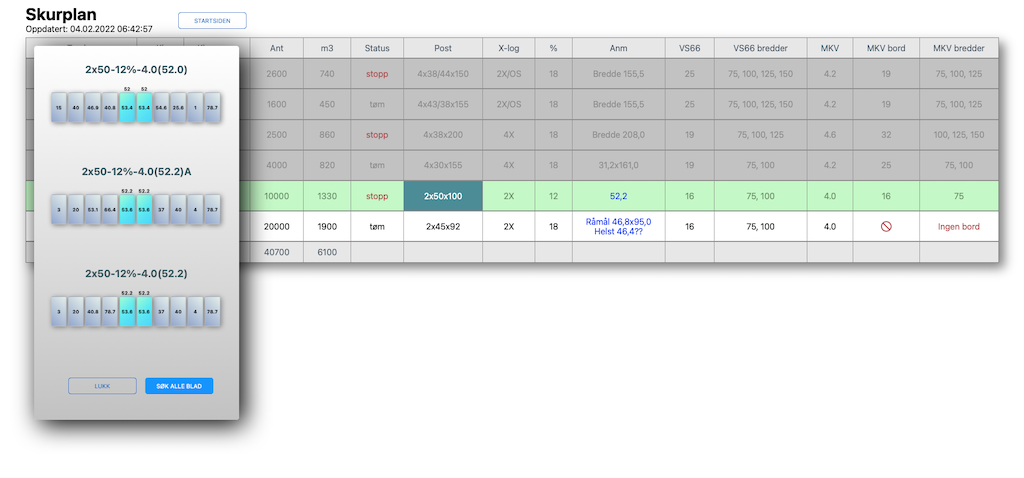
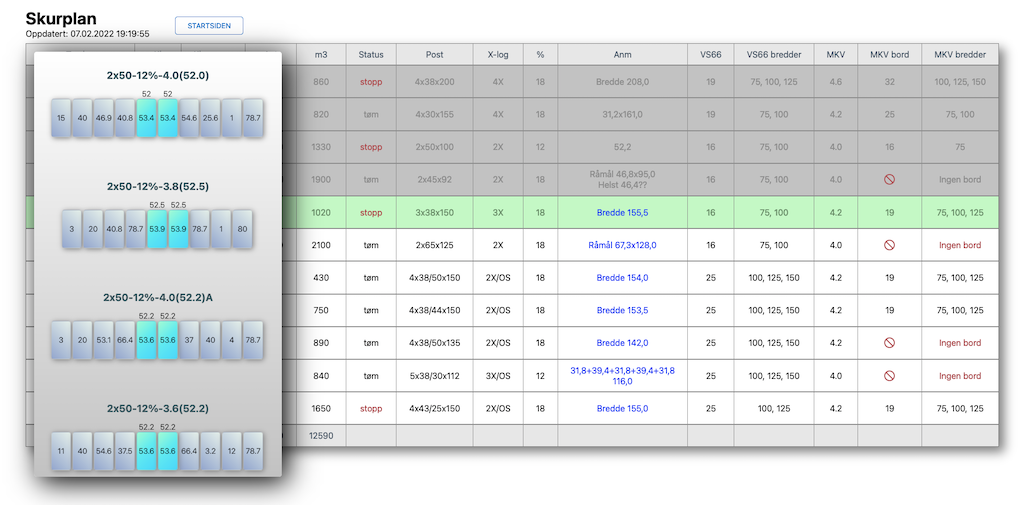
design search

Changed region(s): [[0.0, 0.0, 1.0, 0.9958]]

diff --git a/src/components/postarkiv/PostarkivStartpage2.jsx b/src/components/postarkiv/PostarkivStartpage2.jsx
@@ -36,9 +36,14 @@ const PostarkivStartpage2 = ({
               placeholder="Søk"
               onChange={(e) => setInput(e.target.value)}
             />
-            <p className="antall">
-              Antall: {filteredData && filteredData.length}
-            </p>
+            <div>
+              <p className="antall">
+                Antall poster: {postarkiv && postarkiv.length}
+              </p>
+              <p className="antall">
+                Antall treff: {filteredData && filteredData.length}
+              </p>
+            </div>
           </div>
         </div>
 
@@ -98,6 +103,7 @@ const PostarkivStartpage2 = ({
           .header {
             margin-bottom: 2rem;
             text-align: center;
+            color: white;
           }
           .header-component {
             padding: 2rem 0;
@@ -111,7 +117,7 @@ const PostarkivStartpage2 = ({
             display: grid;
             place-items: center;
             width: 100%;
-            background-color: #ffffff;
+            background-color: transparent;
             z-index: 100;
             margin-bottom: 5rem;
           }
@@ -138,7 +144,15 @@ const PostarkivStartpage2 = ({
             height: 10rem;
           }
           .rings {
-            background-image: linear-gradient(120deg, #84fab0 0%, #8fd3f4 100%);
+            background-image: linear-gradient(
+              to top,
+              #ffffff 0%,
+              #cceaf0 1%,
+              #78a7b6 26%,
+              #d1f4f8 48%,
+              #b2dbee 75%,
+              #28778f 100%
+            );
             border: 1px solid #a3a1a171;
             padding: 0.5rem;
             font-size: 0.8rem;
@@ -149,16 +163,18 @@ const PostarkivStartpage2 = ({
             align-items: center;
             margin-right: 0.2rem;
             border-radius: 3px;
-            box-shadow: 2px 2px 10px grey;
           }
           .endrings {
           }
           .rawinput {
             background-image: linear-gradient(
-              -225deg,
-              #ffe29f 0%,
-              #ffa99f 48%,
-              #ff719a 100%
+              to top,
+              #ffffff 0%,
+              #ece478 1%,
+              #7f8833 26%,
+              #f3f57f 48%,
+              #dce2a5 75%,
+              #6f7708 100%
             );
             position: relative;
           }
@@ -168,6 +184,7 @@ const PostarkivStartpage2 = ({
           .rawGauge {
             position: absolute;
             top: -1.2rem;
+            color: #3d9bf3;
           }
           .post-container {
             margin-bottom: 5rem;

diff --git a/src/components/skurliste/SearchListFromBtn.jsx b/src/components/skurliste/SearchListFromBtn.jsx
@@ -80,7 +80,8 @@ const SearchListFromBtn = ({
       <style jsx>
         {`
           .container {
-            background-image: linear-gradient(to top, #c2c2c2 0%, #ffffff 100%);
+            background-image: linear-gradient(45deg, #93a5cf 0%, #e4efe9 100%);
+ background-blend-mode: multiply,multiply;
             position: fixed;
             padding: 2rem;
             margin-left: 1rem;
@@ -129,7 +130,8 @@ const SearchListFromBtn = ({
             height: 10rem;
           }
           .rings {
-            background-image: linear-gradient(45deg, #93a5cf 0%, #e4efe9 100%);
+            background-image: linear-gradient(to top, #ffffff 0%, lightgrey 1%, #b6b6b6 26%, #efefef 48%, #d9d9d9 75%, #959595 100%);
+ background-blend-mode: screen;
             border: 1px solid #a3a1a171;
             padding: 0.5rem;
             font-size: 0.9rem;
@@ -142,12 +144,13 @@ const SearchListFromBtn = ({
             margin-right: 0.2rem;
             border-radius: 5px;
             box-shadow: 2px 2px 10px grey;
+            
            
           }
           .endrings {
           }
           .rawinput {
-            background-image: linear-gradient(-225deg, #9EFBD3 0%, #57E9F2 48%, #45D4FB 100%);
+            background-image: linear-gradient(to top, #ffffff 0%, #aad8b3 1%, #53b368 26%, #bde6ca 48%, #9debc7 75%, #499481 100%);
             position: relative;
            
           }

diff --git a/pages/postarkiv.js b/pages/postarkiv.js
@@ -67,9 +67,17 @@ const Postarkiv = ({
       <style jsx>
         {`
            {
-            /* .container {
-            background-color: #333;
-          } */
+            .container {
+              background: linear-gradient(
+                  rgba(0, 0, 0, 0.5),
+                  rgba(0, 0, 0, 0.5)
+                ),
+                url("https://images.unsplash.com/photo-1617400120050-a1e45fa16c02?ixlib=rb-1.2.1&ixid=MnwxMjA3fDB8MHxwaG90by1wYWdlfHx8fGVufDB8fHx8&auto=format&fit=crop&w=1472&q=80");
+              background-repeat: no-repeat;
+              background-attachment: fixed;
+              background-size: cover;
+              min-height: 100vh;
+            }
           }
         `}
       </style>

diff --git a/src/components/common/HeaderComponent.jsx b/src/components/common/HeaderComponent.jsx
@@ -127,7 +127,7 @@ const HeaderComponent = ({ color, editHeader }) => {
         .tabs {
           text-transform: uppercase;
           transition: 0.5s;
-          color: ${color};
+          color: white;
           font-size: 1rem;
           font-weight: 100;
         }
